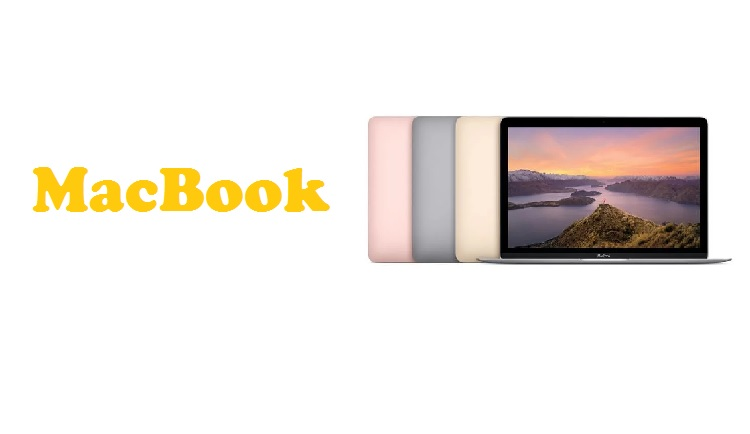
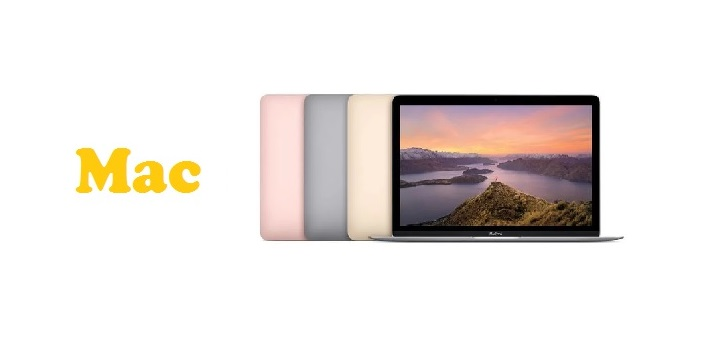
update

Changed region(s): [[0.0303, 0.2647, 0.9697, 0.7353]]

diff --git a/index.html b/index.html
@@ -40,7 +40,7 @@ Android VPN使用说明
 
 <h3 style="text-align:center;" >
 <a href="VPN_mac.html">
-MacBook VPN使用说明
+Mac VPN使用说明
 </h3>
 
 <p style="text-align:center;">
@@ -50,7 +50,7 @@ MacBook VPN使用说明
 
 <h3 style="text-align:center;" >
 <a href="VPN_win7.html">
-Windows7 VPN使用说明
+Windows VPN使用说明
 </h3>
 
 <p style="text-align:center;">
